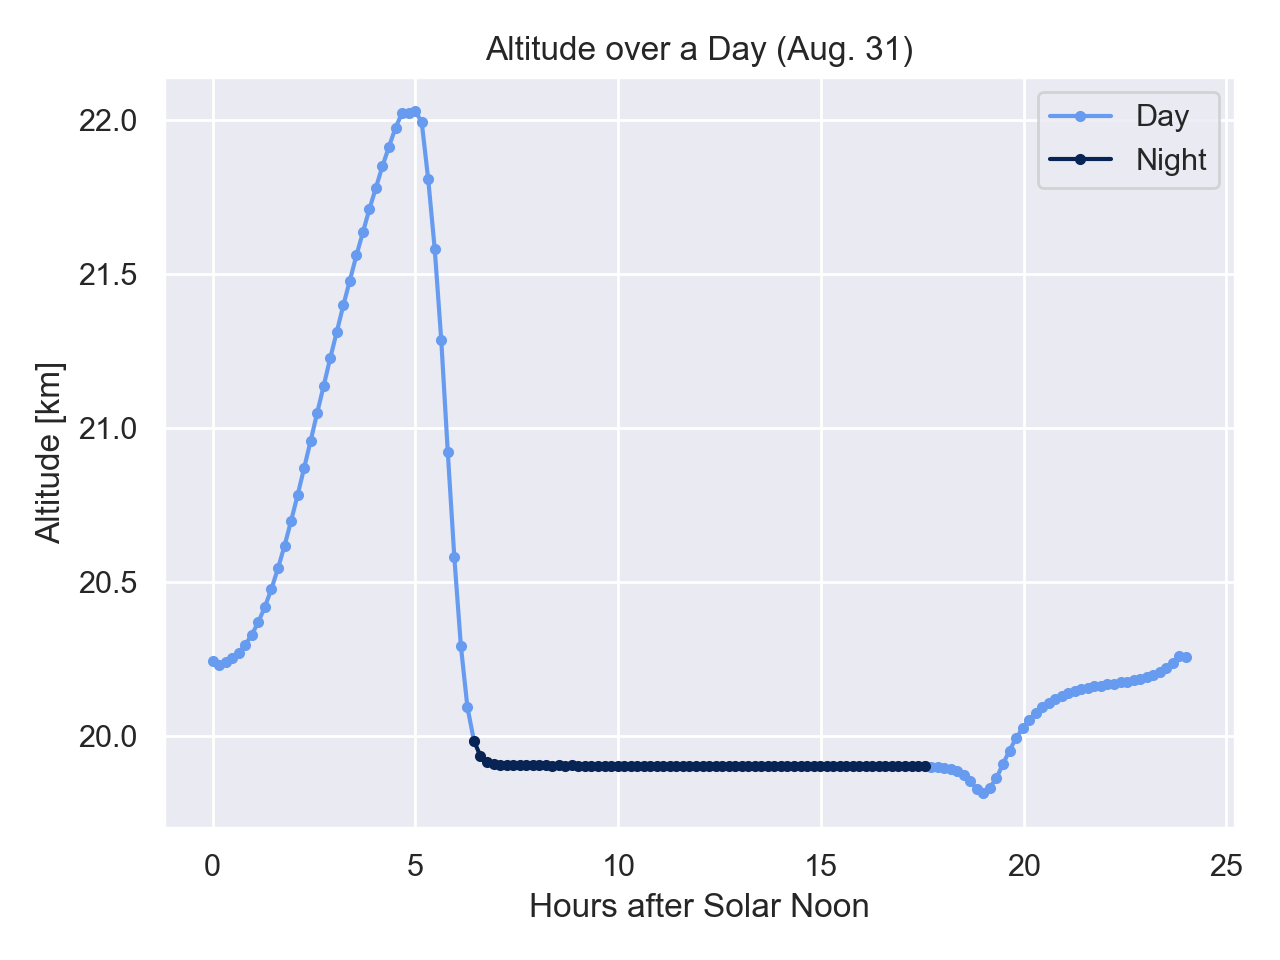
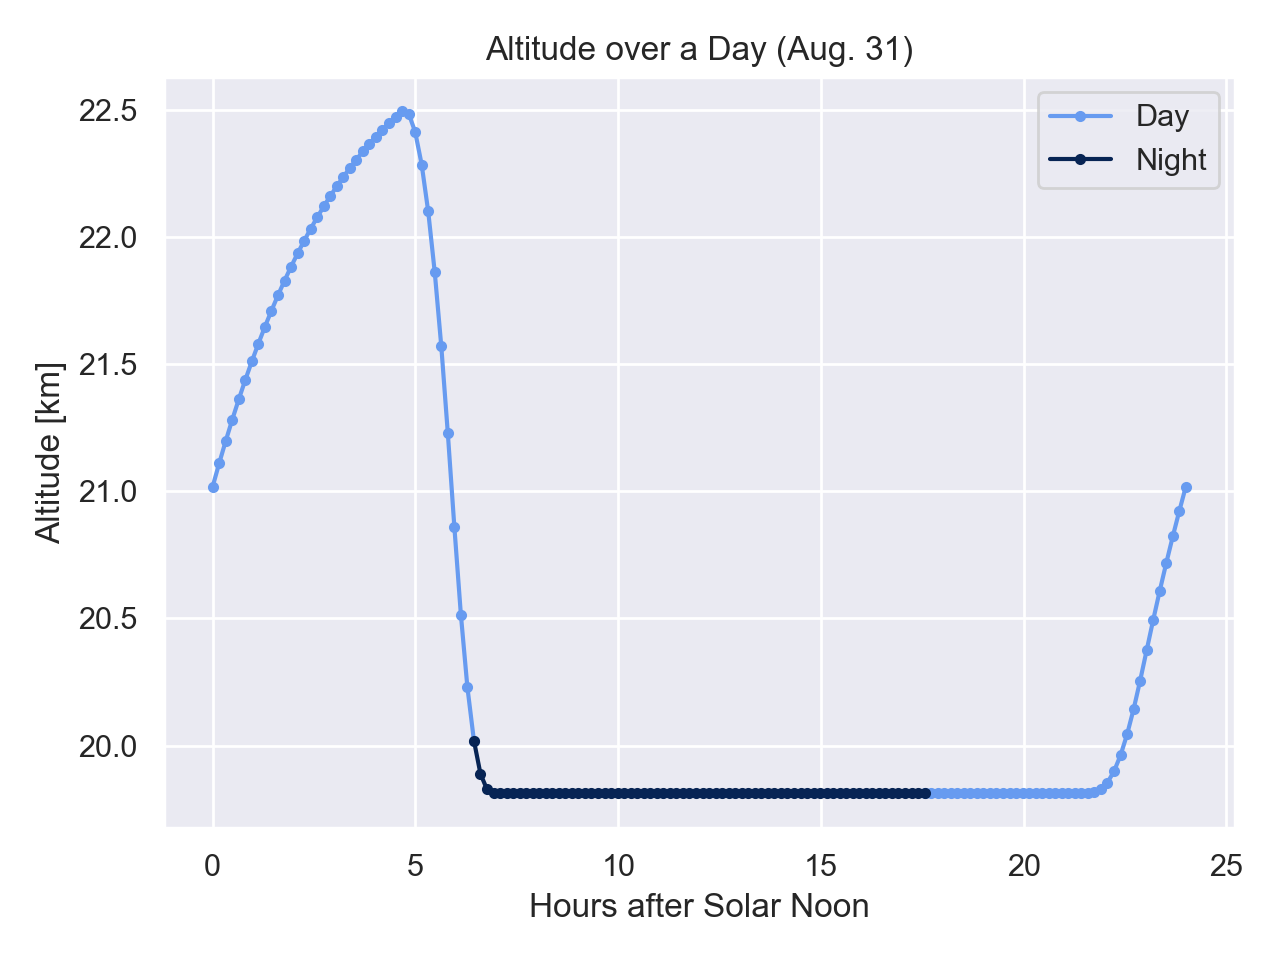
hard-coded 4 motors

diff --git a/design_opt.py b/design_opt.py
@@ -36,7 +36,7 @@ file_to_save_to = "des_vars.json"
 
 minimize = "wing.span() / 50" # any "eval-able" expression
 # minimize = "max_mass_total / 300" # any "eval-able" expression
-# minimize = "cas.sum1(airspeed/20)"
+# minimize = "cas.sum1(airspeed/20)" # any "eval-able" expression
 
 def des_var(  # design variable
         name,
@@ -598,12 +598,12 @@ opti.subject_to([
     propeller_diameter / 10 < 1
 ])
 
-# n_propellers = 2  # 2 * n_booms
-n_propellers = des_var(name="n_propellers", initial_guess=6, scale_factor=1)  # TODO add scale factor
-opti.subject_to([
-    n_propellers > 2,
-    n_propellers < 6,
-])
+n_propellers = 4
+# n_propellers = des_var(name="n_propellers", initial_guess=6, scale_factor=1)  # TODO add scale factor
+# opti.subject_to([
+#     n_propellers > 2,
+#     n_propellers < 6,
+# ])
 
 propeller_rads_per_sec = propeller_tip_mach * atmo.get_speed_of_sound_from_temperature(
     atmo.get_temperature_at_altitude(20000)
@@ -731,7 +731,9 @@ opti.subject_to([
     solar_area_fraction < 0.80,  # TODO check
 ])
 
-area_solar = wing.area() * solar_area_fraction
+area_solar = (
+                 wing.area() + n_booms * (hstab.area())
+             ) * solar_area_fraction
 
 # Energy generation cascade
 power_in_from_sun = solar_flux_on_horizontal * area_solar / energy_generation_margin
